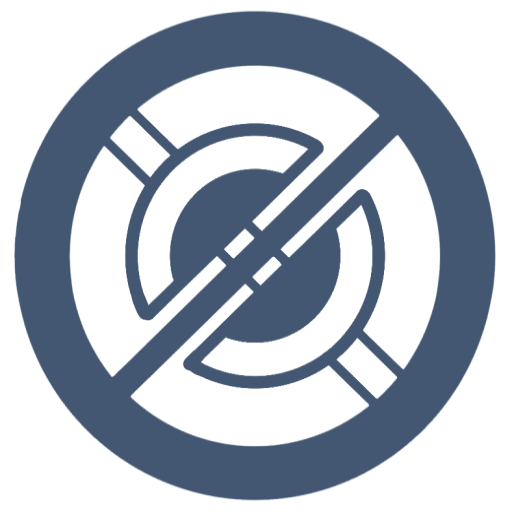
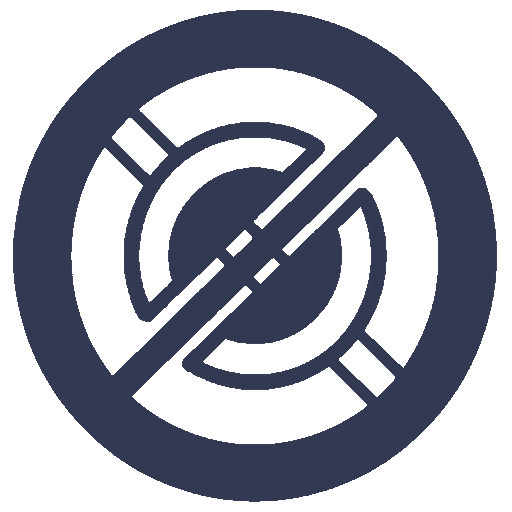
Minor layout changes
Positioning and spacing of top header and footer
Resized trackr.svg
Added content example for Trackr
Reworked site.js

diff --git a/index.html b/index.html
@@ -14,8 +14,14 @@
     <h2 id="title-caption">Quality off-brand products for the 21st century</h2>
   </div>
   <hr>
-  <p id="navbar"><a href="https://www.bing.com/404">Trackr</a> - <a href="https://www.bing.com/404">Cynobroad</a> - <a href="https://www.bing.com/404">Webventures</a></p>
-  <img id="trackrico" src="static/img/trackr.svg">
+  <p id="navbar"><b><a href="https://www.bing.com/404">Trackr</a> - <a href="https://www.bing.com/404">Cynobroad</a> - <a href="https://www.bing.com/404">Webventures</a></b></p>
+  <div id="trackr">
+    <img src="static/img/trackr.svg">
+    <div id="infogroup">
+      <h1>Trackr Desktop</h1>
+      <p>Trackr is your premiere off-brand choice for time management based needs! The Trackr Desktop client never connects to the internet so your personal data you enter in stays safe. It features an easy to use interface, and it's design is oriented around less time spent managing, and more time spent doing. You can even export your data for analysis in a third party tool! Check it out <a href="https://github.com/SDProductions/Trackr">here</a>.</p>
+    </div>
+  </div>
 </body>
 <footer>
   <p>SDProductions is not liable for any and all damage while you use our products, be it physical, emotional, or relating to your favorite toaster in the kitchen. Rest assured though, for your cookie jar remains safe, as this site does not use cookies.</p>

diff --git a/static/css/site.css b/static/css/site.css
@@ -7,45 +7,65 @@ body {
 
 #group-title {
   margin: auto;
-  padding: 2em 2em;
+  padding: 1em 2em;
   width: 40%;
+  opacity: 0;
 }
 
 #title-icon {
   float: left;
-  height: 6em;
-  width: 6em;
-  opacity: 0;
+  height: 6.2em;
+  width: 6.2em;
 }
 
 #title {
   font-size: 4em;
   margin: 0;
   padding-left: 8vw;
-  opacity: 0;
 }
 
 #title-caption {
   font-size: 1.2em;
   margin: 0;
   padding-left: 8vw;
-  opacity: 0;
 }
 
 #navbar {
   font-size: 1.2em;
+  margin: 0.4em;
   text-align: center;
+  opacity: 0;
 }
 
 #navbar a {
-  color: #343953;
+  color: #403F4C;
   text-decoration: none;
 }
 
-#trackrico {
-  width: 18em;
-  margin-top: 5em;
-  margin-left: 22em;
+#trackr {
+  margin: 0 20em;
+  margin-top: 10vh;
+  width: 60em;
+  opacity: 0;
+}
+
+#trackr img {
+  float: left;
+  width: 20em;
+}
+
+#infogroup {
+  margin-left: 24em;
+}
+
+#infogroup h1 {
+  color: #3B3A46;
+  font-size: 3em;
+}
+
+#infogroup p {
+  color: #403F4C;
+  font-size: 1.2em;
 }
 
 footer {
@@ -55,7 +75,7 @@ footer {
   margin-bottom: 0;
   padding: 2vh;
   position: absolute;
-  bottom: -15em;
+  bottom: -10em;
   right: 0;
   left: 0;
 }

diff --git a/static/js/site.js b/static/js/site.js
@@ -1,9 +1,7 @@
 $(document).ready(function() {
-  $("#title-icon").fadeTo(600, 1).promise().done(function () {
-    $("#title").fadeTo(800, 1).promise().done(function () {
-      $("#title-caption").fadeTo(600, 1).promise().done(function () {
-        $("#scroll-icon").animate({'opacity':'1', 'margin-top':'42vh'}, 600);
-      });
+  $("#group-title").fadeTo(800, 1).promise().done(function() {
+    $("#navbar").fadeTo(800, 1).promise().done(function() {
+      $("#trackr").fadeTo(800, 1);
     });
   });
 });
